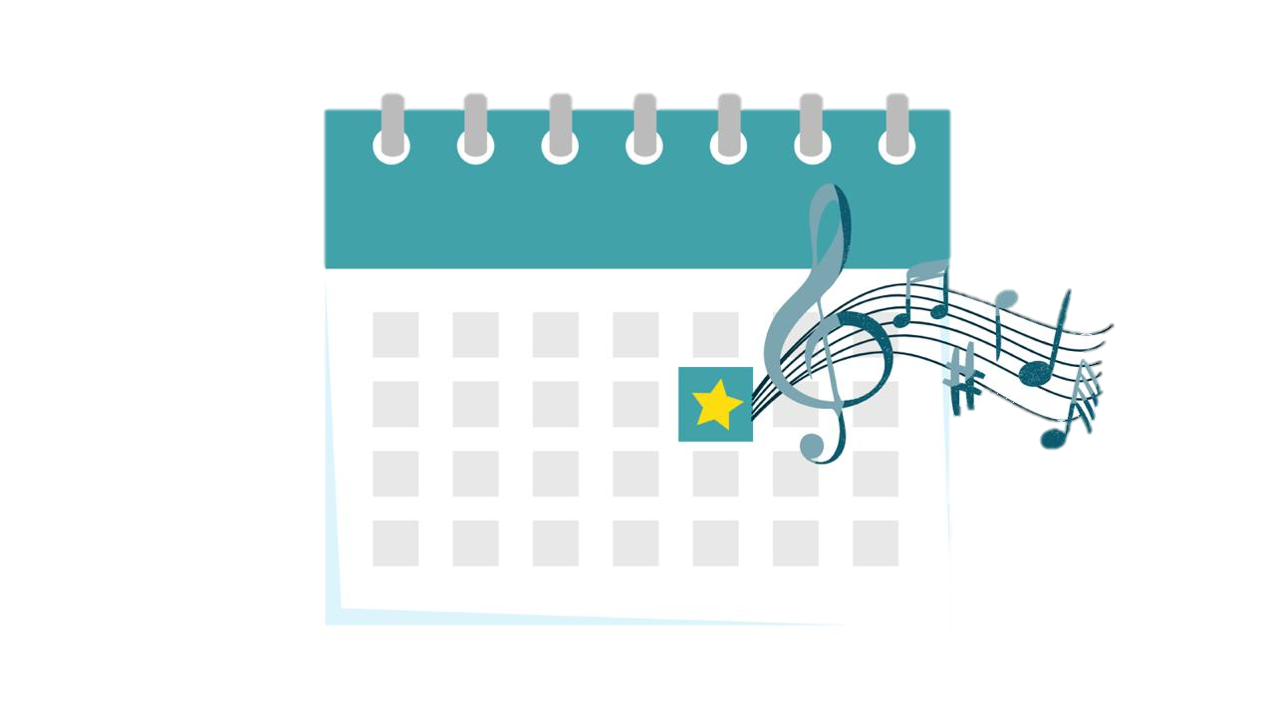
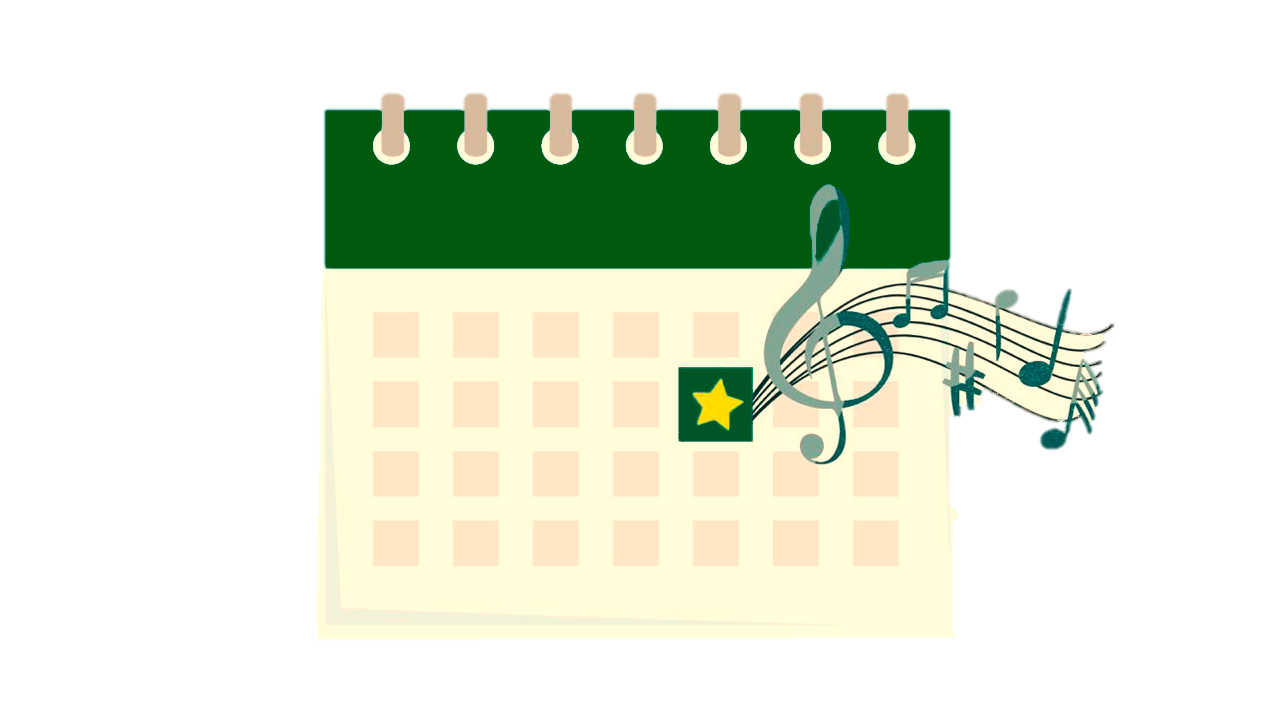
Trocar a cor do desenho do calendário

diff --git a/pages/Agenda.js b/pages/Agenda.js
@@ -64,7 +64,7 @@ export default class Agenda extends Component {
       <View style={styles.container}>
 
       <ScrollView>
-        
+
         <View>
           <Image style={styles.image} source={require("../assets/calendar.png")} />
         </View>
@@ -146,7 +146,7 @@ const styles = StyleSheet.create({
   image: {
     width: null,
     resizeMode: 'contain',
-    height: 120
+    height: 150
   },
   textoContainer: {
     marginTop: 20,
